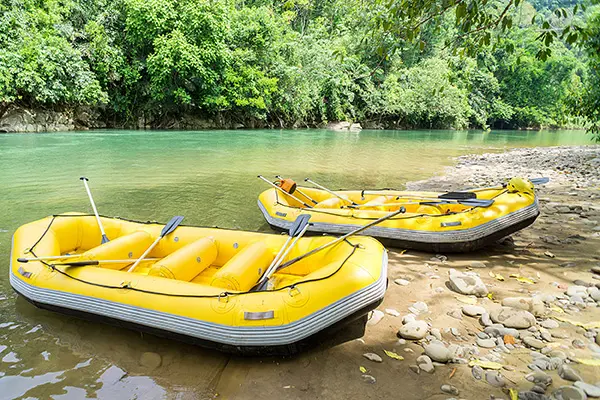
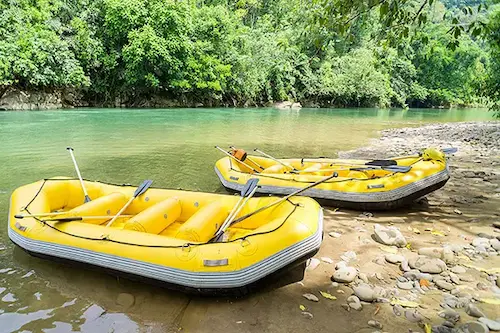
less kb images

diff --git a/wwr/styles/rafting.css b/wwr/styles/rafting.css
@@ -78,7 +78,7 @@ h1{
     padding:16px;
     opacity: 90%;
     text-align: center;
-    background-color: var(--secondary-color);
+    background-color: var(--primary-color);
     color: #fff;
 }
 
@@ -90,15 +90,15 @@ h1{
     font-weight: 700;
     padding: 2%;
     opacity: 90%;
-    background-color: var(--secondary-color);
+    background-color: var(--primary-color);
     width:95%;
 }
 
 .hero article img{
     float: right;
     width: 125px;
-    box-shadow: 0 0 30px rgb(0, 92, 128);
-    border: 1px solid var(--secondary-color);
+    box-shadow: 0 0 30px rgb(53, 25, 2);
+    border: 1px solid var(--primary-color);
 }
 
 .history{
@@ -107,9 +107,13 @@ h1{
     display: flex;
     align-items: center;
     justify-content: space-between;
-    background-color: #7e6e57;
-    color:#fff;
+    background-color: var(--secondary-color);
+    color:var(--primary-color);
     font-weight: 700;
+}
+
+.history h2{
+    color:var(--primary-color);
 }
 
 figure img{
@@ -125,7 +129,7 @@ figure img{
 }
 
 .adventure{
-    background-color: #7e6e57;
+    background-color: rgb(65, 122, 68);
     color: #fff;
     font-weight: 550;
     margin: 1rem auto;  

diff --git a/wwr/about.html b/wwr/about.html
@@ -50,11 +50,11 @@
                 <figcaption>Thrilling course</figcaption>
             </figure>
             <figure>
-                <img src="images/group.jpg" alt="Groups Have Fun!">
+                <img src="images/group.webp" alt="Groups Have Fun!">
                 <figcaption>More fun with friends!</figcaption>
             </figure>
             <figure>
-                <img src="images/rivers.jpg" alt="Beautiful River">
+                <img src="images/rivers.webp" alt="Beautiful River">
                 <figcaption>Our rivers</figcaption>
             </figure>
         </section>    
